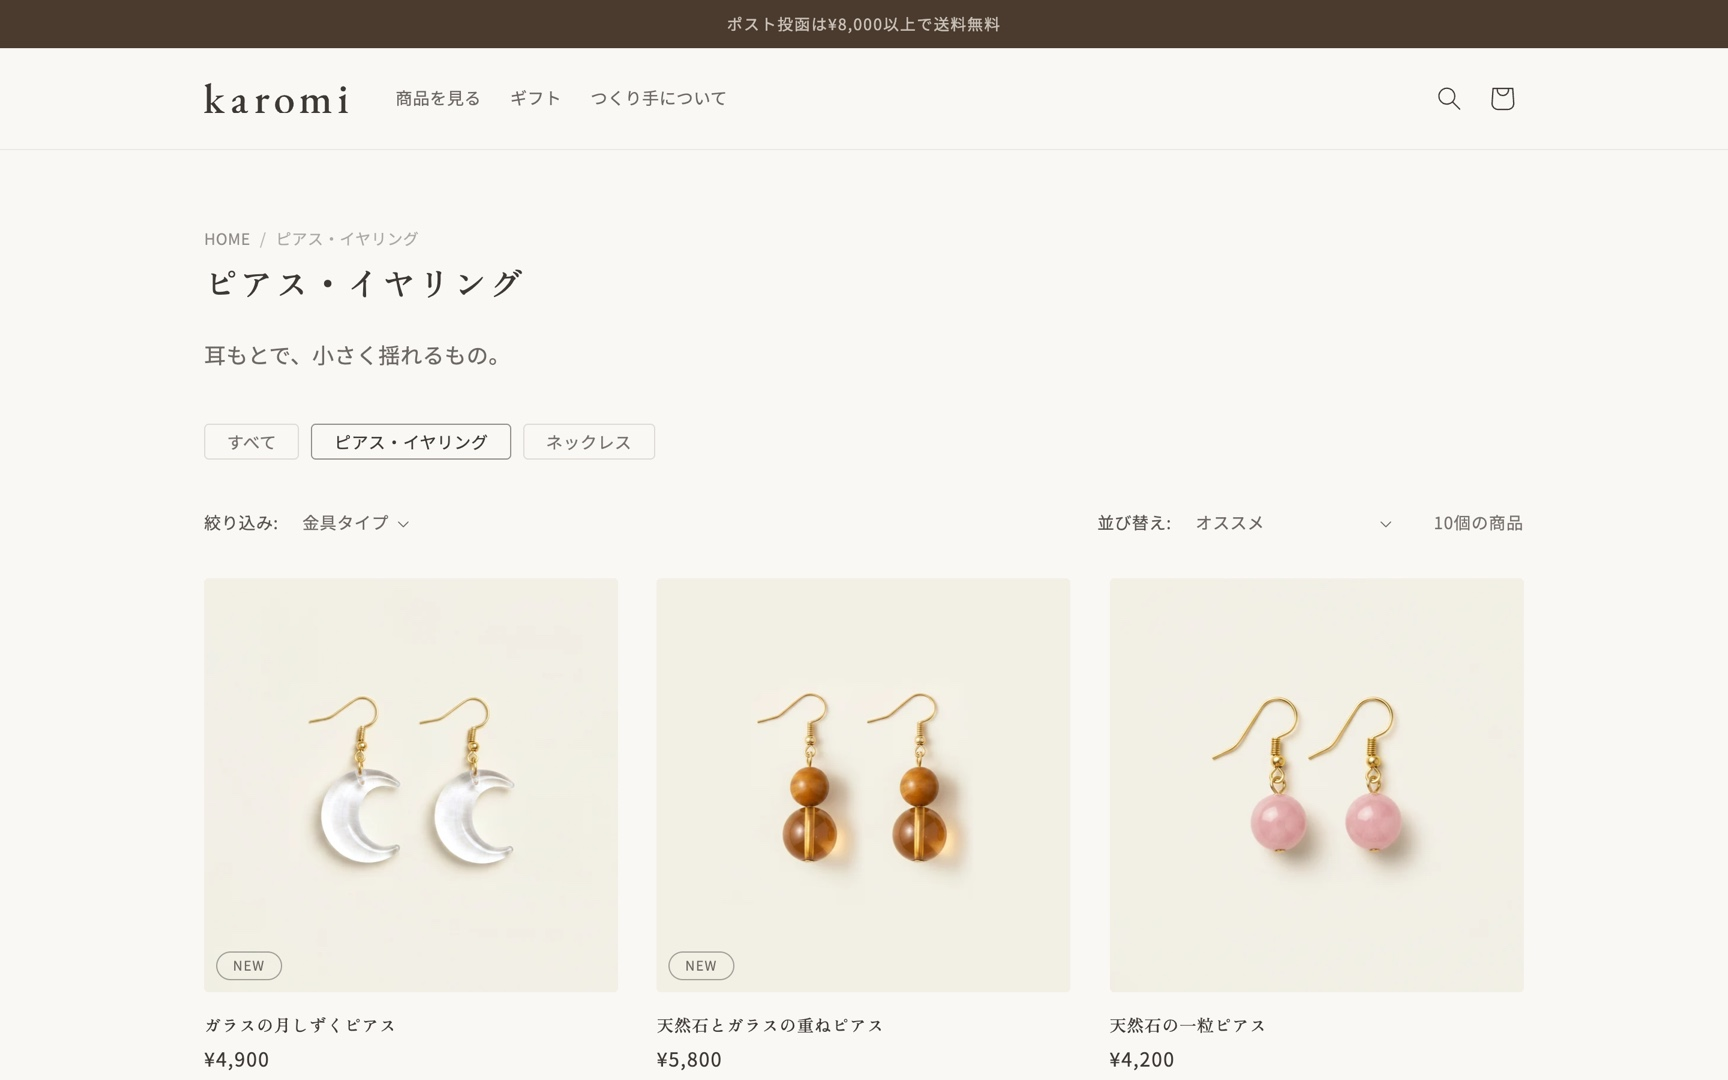
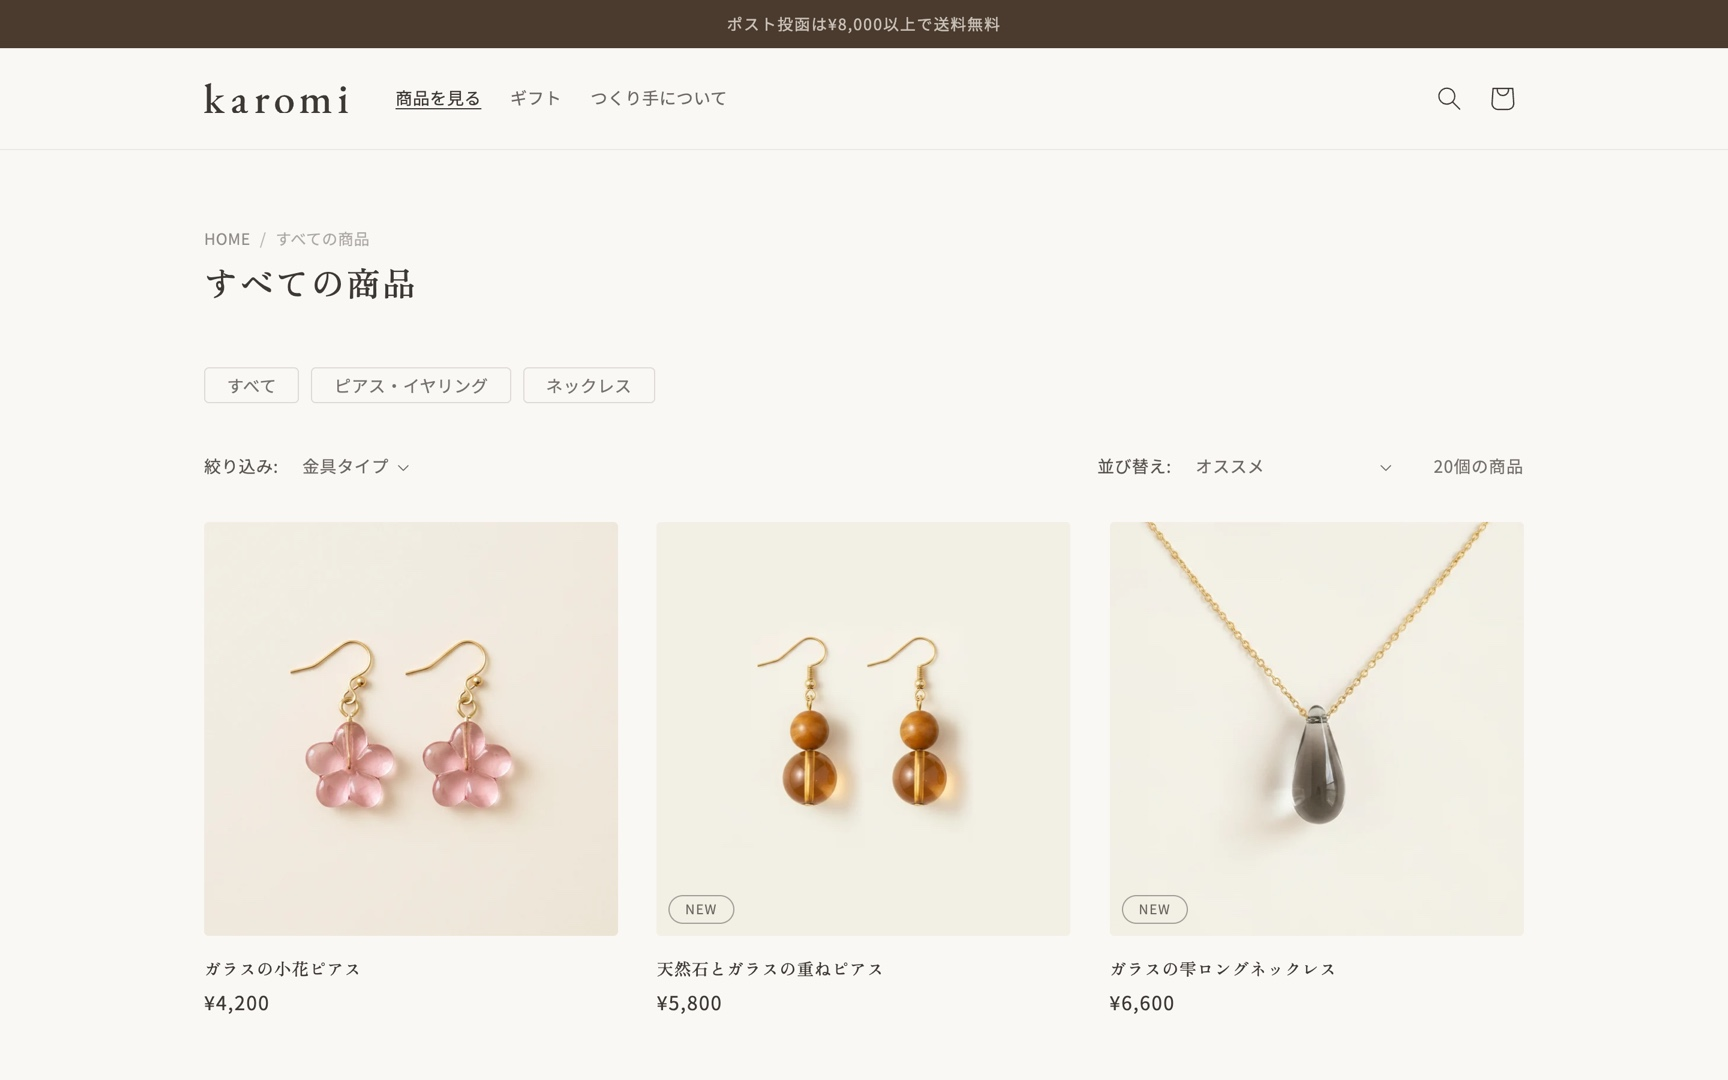
content: update collection and product screenshots
The product page description no longer repeats the size and
weight already shown in the spec table, so the figure now
supports the claim in section 4 instead of contradicting it.
Product height changed 2160 -> 1920; height attribute follows.

diff --git a/index.html b/index.html
@@ -89,7 +89,7 @@
 <figcaption><strong class="fig-label">商品一覧</strong>カテゴリーの切り替えと、金具タイプでの絞り込みを設置。20点が並んでも探しやすいよう、余白と写真の大きさを揃えています。</figcaption>
 </figure>
 <figure>
-<img src="images/karomi-product.jpg" alt="karomiの商品ページ" width="1728" height="2160" loading="lazy">
+<img src="images/karomi-product.jpg" alt="karomiの商品ページ" width="1728" height="1920" loading="lazy">
 <figcaption><strong class="fig-label">商品ページ</strong>色と金具を選ぶ導線を上部にまとめ、その下にスペック表、配送やお手入れの折りたたみ、特徴、関連商品と続きます。</figcaption>
 </figure>
 <figure class="sp">
